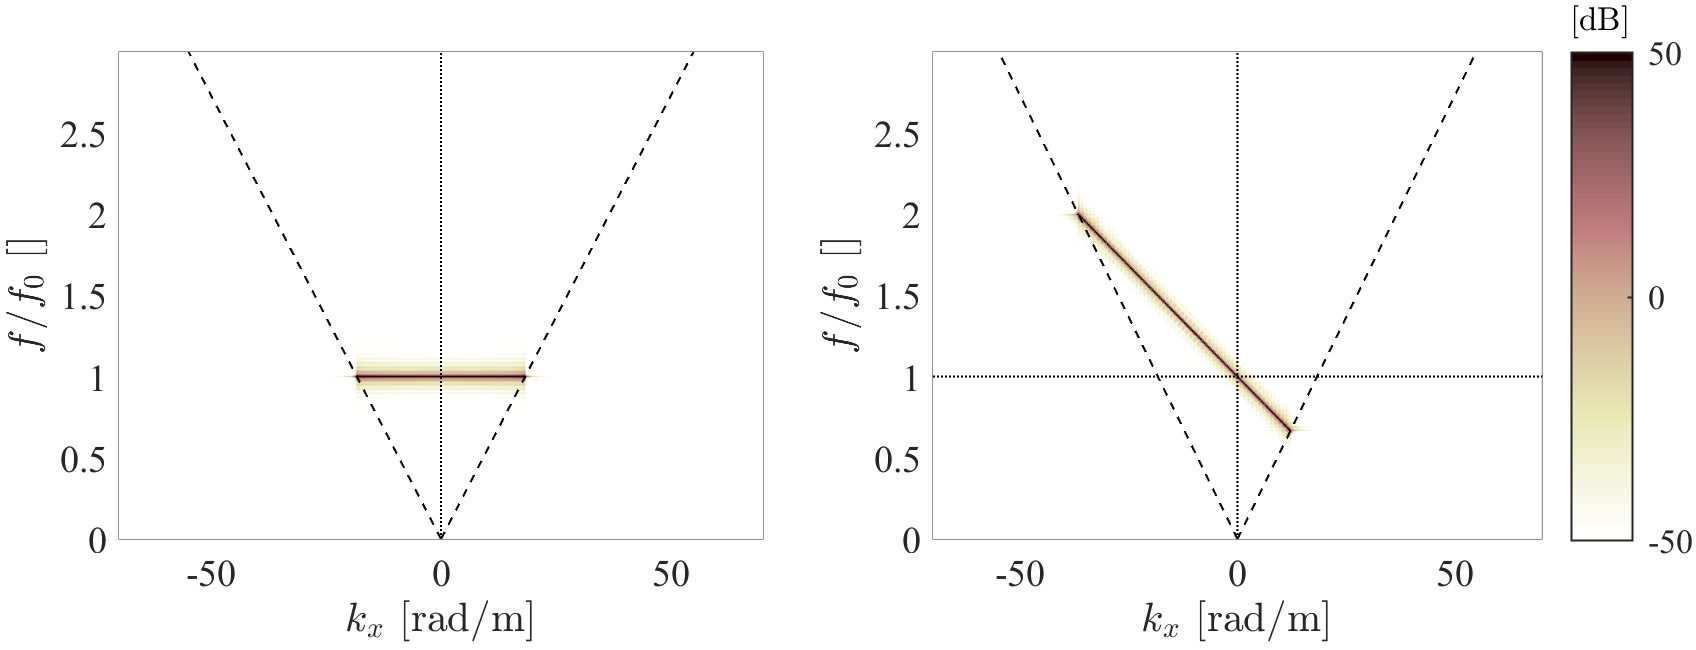
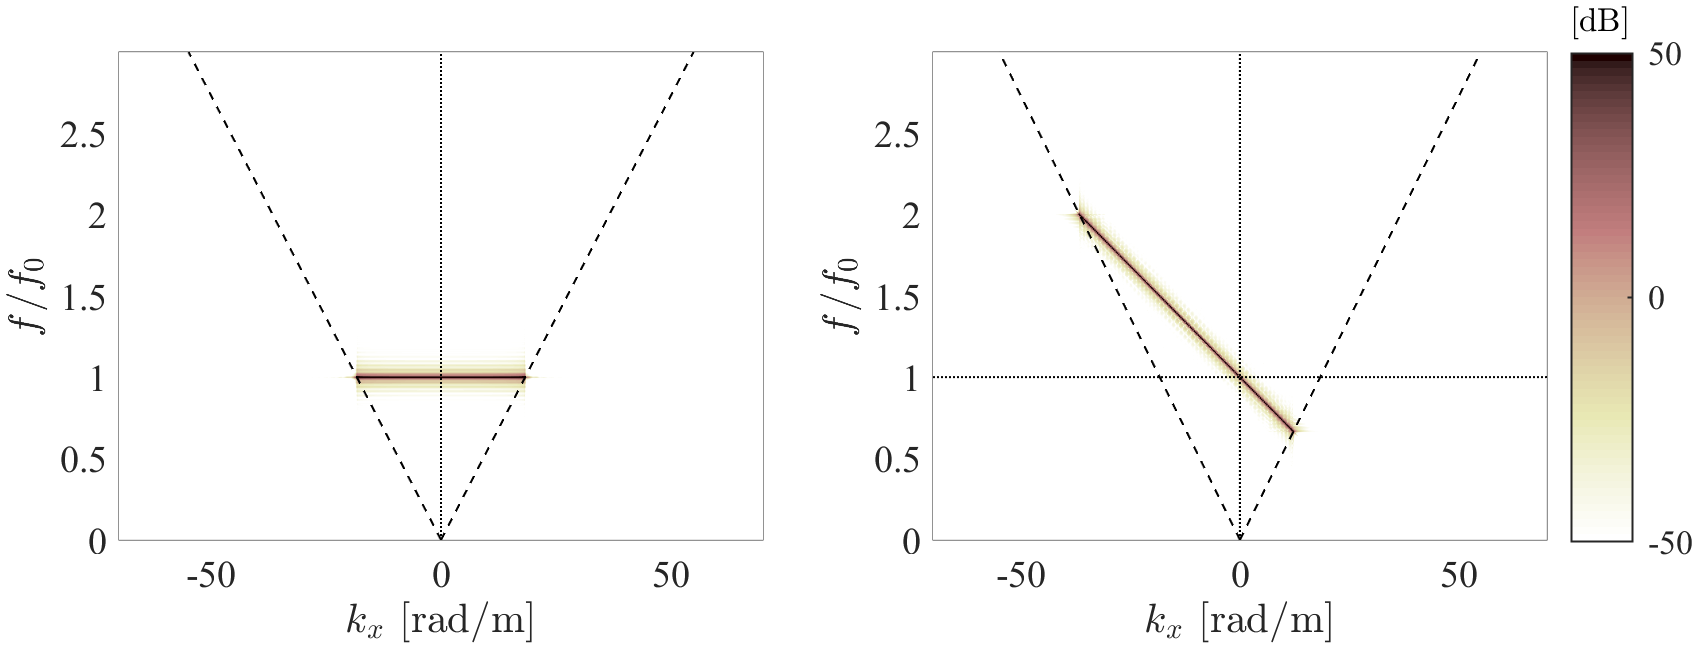
..

diff --git a/LatexProject/abstract_hu.tex b/LatexProject/abstract_hu.tex
@@ -2,15 +2,15 @@ A hangtér-reprodukció célja egy tetszőleges virtuális akusztikai környezet
 A reprodukció alapfeladata ezen hangszóró-vezérlőfüggvények meghatározása úgy, hogy az egyes hangszóróelemekből származó hullámok összege megegyezzen az elérendő virtuális térrel.
 Két alapvető módszer létezik a probléma megoldására:
 Az explicit megoldás célja a szintetizált teret leíró integrálegyenlet közvetlen megoldása a vezérlőfüggvényre vonatkozóan, amely egy megfelelő spektrális dekompozícióval érhető el.
-Ezzel szemben az implicit megoldás, vagy elterjedtebb nevén a hangtérszintézis (Wave Field Synthesis) alapja a virtuális hangteret előírt peremfeltételek alapján leíró kontúrintegrál meghatározása, amely implicite magában tartalmazza a keresett vezérlőfüggvényeket.
+Ezzel szemben az implicit megoldás, vagy elterjedtebb nevén a hangtérszintézis (Wave Field Synthesis) alapja a virtuális hangteret peremfeltételek alapján leíró kontúrintegrál meghatározása, amely implicite magában tartalmazza a keresett vezérlőfüggvényeket.
 
 A jelen disszertáció a hangtérszintézis elméletét tárgyalja újra a kiindulási alapoktól kezdve a technika általánosításának érdekében.
-Fontos eredményként hangszóró-vezérlőfüggvényeket kerülnek bemutatásra, amelyek alkalmazásával egy tetszőleges virtuális hangtér előállítható szabadon választott másodlagos forráskontúrral és a szintézis tetszőleges referenciagörbére optimalizálható, amely görbe mentén amplitúdóhelyes szintézis érhető el.
+Fontos eredményként hangszóró-vezérlőfüggvényeket kerülnek bemutatásra, amelyek alkalmazásával egy tetszőleges virtuális hangtér előállítható szabadon választott másodlagos forráskontúrral és a szintézis tetszőleges referenciagörbére optimalizálható, amely görbe mentén amp\-li\-tú\-dó\-he\-lyes szintézis érhető el.
 
-Ezután az alapvetően a spektrális tartományban adott explicit megoldás nagyfrekvenciás tértartománybeli közelítése kerül bemutatásra, amely bizonyítottan megegyezik a bemutatott hangtérszintézis módszerrel. 
+Ezután az alapvetően a spektrális tartományban adott explicit megoldás nagyfrekvenciás, tértartománybeli közelítése kerül bemutatásra, amely megoldás a bemutatott hangtérszintézis módszerrel megegyező alakra hozható. 
 Ez tehát bizonyítja a két módszer nagyfrekvenciás, aszimptotikus ekvivalenciáját általános szintézis problémákra.
-A dolgozat ezen felül egy egyszerű aszimptotikus átlapolódásgátló-szűrési stratégiát mutat be, amely alapján a hangszórósor diszkrét jellege miatt jelenlévő másodlagos, átlapolódó hullámfrontok hatékonyan elnyomhatók.
+A dolgozat ezen felül egy egyszerű aszimptotikus átlapolódásgátló-szűrési stratégiát is bemutat, amely alapján a hangszórósor diszkrét jellege miatt jelenlévő másodlagos, térbeli-átlapolódó hullámfrontok hatékonyan elnyomhatók.
 
 Végezetül összetett példaként a leírtak alkalmazására a mozgó források által keltett hangterek szintézisének kérdései kerülnek tárgyalásra.
-A dolgozatban bemutatott módszerek mind egyszerűen kiterjeszthetőek mozgó források szintézisére:
-Mind hangtérszintézis, mind explicit vezérlőfüggvények bevezetésre kerülnek erre a dinamikus, idővariáns esetre is, az átlapolódásgátló-szűrési stratégia kiterjesztésével együtt.
+A dolgozatban bemutatott módszerek egyszerűen kiterjeszthetőek mozgó források szintézisére:
+hangtérszintézis és explicit vezérlőfüggvények kerülnek bevezetésre erre a dinamikus, idővariáns esetre is, az átlapolódásgátló-szűrési stratégia kiterjesztésével együtt.

diff --git a/LatexProject/abstract_en.tex b/LatexProject/abstract_en.tex
@@ -1,5 +1,5 @@
 Sound field synthesis aims at the the reproduction of the physical properties of an arbitrary wavefield over an extended listening region by driving a densely spaced loudspeaker ensemble, termed the secondary source distribution.
-The loudspeakers are fed with properly chosen driving signals , or driving function so that the sum of the fields of the individual loudspeakers would equal to the desired virtual/target sound field.
+The loudspeakers are fed with properly chosen driving signals or driving functions so that the sum of the fields of the individual loudspeakers would equal to the desired virtual/target sound field.
 Two basic types of solutions exist in order to arrive at the required driving functions:
 Explicit solution solves the integral equation describing the synthesized sound field directly for the driving function by performing its spectral decomposition.
 On the other hand, the implicit solution aims at the formulation of the synthesized field in terms of a contour integral which would contain the driving function implicitly.
@@ -10,7 +10,7 @@ As an important result, loudspeaker driving functions are presented for a freely
 
 Afterwards, a high frequency, asymptotic spatial domain formulation is given for the explicit solution which is shown to be equivalent with the presented Wave Field Synthesis approach.
 Hence, the general asymptotic relationship between the two approaches is established for the first time.
-Furthermore, a simple asymptotic anti-aliasing strategy is proposed in order to suppress aliasing wave emerging in case of the application of a practical discrete secondary source distribution, instead of the theoretical continuous one.
+Furthermore, a simple asymptotic anti-aliasing strategy is proposed in order to suppress aliasing waves emerging in case of the application of a practical discrete secondary source distribution, instead of the theoretical continuous one.
 
 Finally, as a complex application example the synthesis of the field generated by moving virtual sources is discussed.
 It is shown that all the presented results can be extended for the inclusion of this dynamical case: 

diff --git a/Booklet/booklet_hu.tex b/Booklet/booklet_hu.tex
@@ -157,7 +157,7 @@ Firtha2015:daga_booklet,firtha2016:daga_booklet,Firtha2017:daga_booklet,Firtha20
 \newcommand{\authorname}{Author}
 \newcommand{\supervisorname}{Konzulens:}
 \newcommand{\supervisor}{Dr. Fiala Péter}
-\newcommand{\creationdate}{Budapest, 2018.}
+\newcommand{\creationdate}{Budapest, 2019.}
 \def \deptlogo {logos/hit_logo_en.png}
 \def \lablogo {logos/last_logo_eng.png}
 
@@ -186,7 +186,7 @@ A fenti megszorítás a sztereofon technikák fontos közös hátrányának teki
 A sztereofóniával ellentétben a fizikai hangtér-reprodukció (sound field synthesis) célja egy tetszőleges célhangtér fizikai jellemzőinek visszaállítása egy kiterjedt megfigyelési területen.
 Amennyiben ezt sikerül elérni, a hallgató a megfigyelési terület tetszőleges pontján eleve a kívánt akusztikai érzeti jellemzőket érzékeli.
 Természetesen egy hullámtér kiterjedt területen való szabályozása bonyolult feladat, a megfigyelési terület hangszórókkal való körbezárását igényeli.
-A fizikai hangtér-reprodukció alapfeladata ezek után az egyes hangszórók vezérlőjelének, vagy \emph{vezérlő függvényének} meghatározása úgy, hogy a teljes hangszórósokaság eredő hangtere megegyezzen az előírt \emph{virtuális térrel}.
+A fizikai hangtér-reprodukció alapfeladata ezek után az egyes hangszórók vezérlőjelének, vagy \emph{vezérlőfüggvényének} meghatározása úgy, hogy a teljes hangszórósokaság eredő hangtere megegyezzen az előírt \emph{virtuális térrel}.
 A hangszórósokaság elnevezése a továbbiakban a \emph{másodlagos forráseloszlás (secondary source distribution)}.
 A hangtér-reprodukció általános elrendezése \azr{fig:introduction:sfs_aim}. ábrán látható.
 

diff --git a/LatexProject/MATLAB/Chapter_5_Moving_Source_Synthesis/Fig_5_10_Moving_source_kxw.m b/LatexProject/MATLAB/Chapter_5_Moving_Source_Synthesis/Fig_5_10_Moving_source_kxw.m
@@ -62,7 +62,7 @@ set(gca,'FontName','Times New Roman');
 % 
 
 xlabel('$k_x$ [rad/m]')
-ylabel('$f/f_0$ []')
+ylabel('$f/f_0$')
 xlim([-70,70])
 shading interp
 caxis(cax)
@@ -79,7 +79,7 @@ caxis(cax)
 axis tight
 set(gca,'FontName','Times New Roman');
 xlabel('$k_x$ [rad/m]')
-ylabel('$f/f_0$ []')
+ylabel('$f/f_0$')
 xlim([-70,70])
 col = colorbar;
 title(col,'[dB]' , 'Interpreter', 'LaTex' , 'FontSize', ftsize-1);

diff --git a/Booklet/booklet_en.tex b/Booklet/booklet_en.tex
@@ -157,7 +157,7 @@ Firtha2015:daga_booklet,firtha2016:daga_booklet,Firtha2017:daga_booklet,Firtha20
 \newcommand{\authorname}{Author}
 \newcommand{\supervisorname}{Supervisor}
 \newcommand{\supervisor}{Péter Fiala, PhD.}
-\newcommand{\creationdate}{Budapest, 2018.}
+\newcommand{\creationdate}{Budapest, 2019.}
 \def \deptlogo {logos/hit_logo_en.png}
 \def \lablogo {logos/last_logo_eng.png}
 
